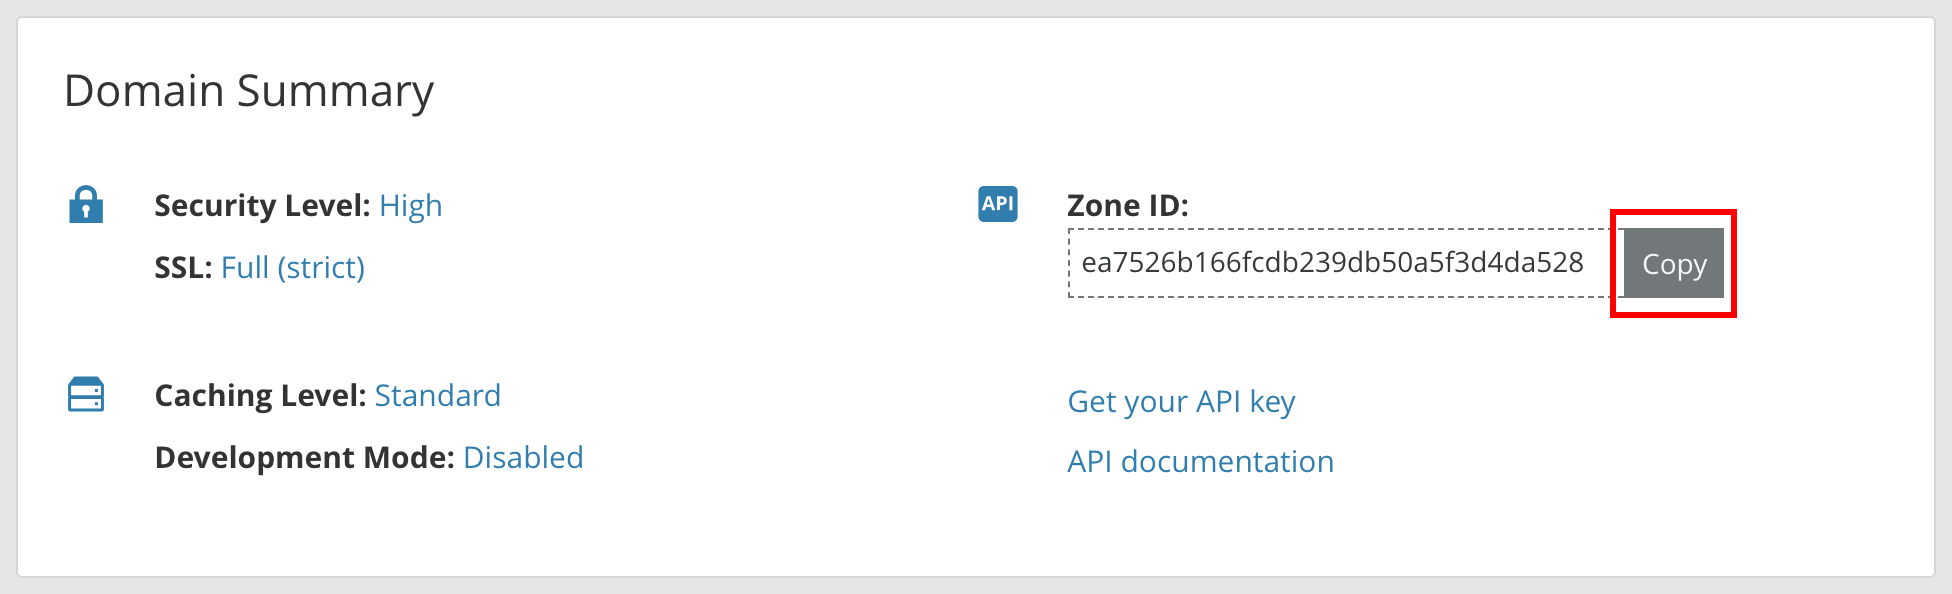
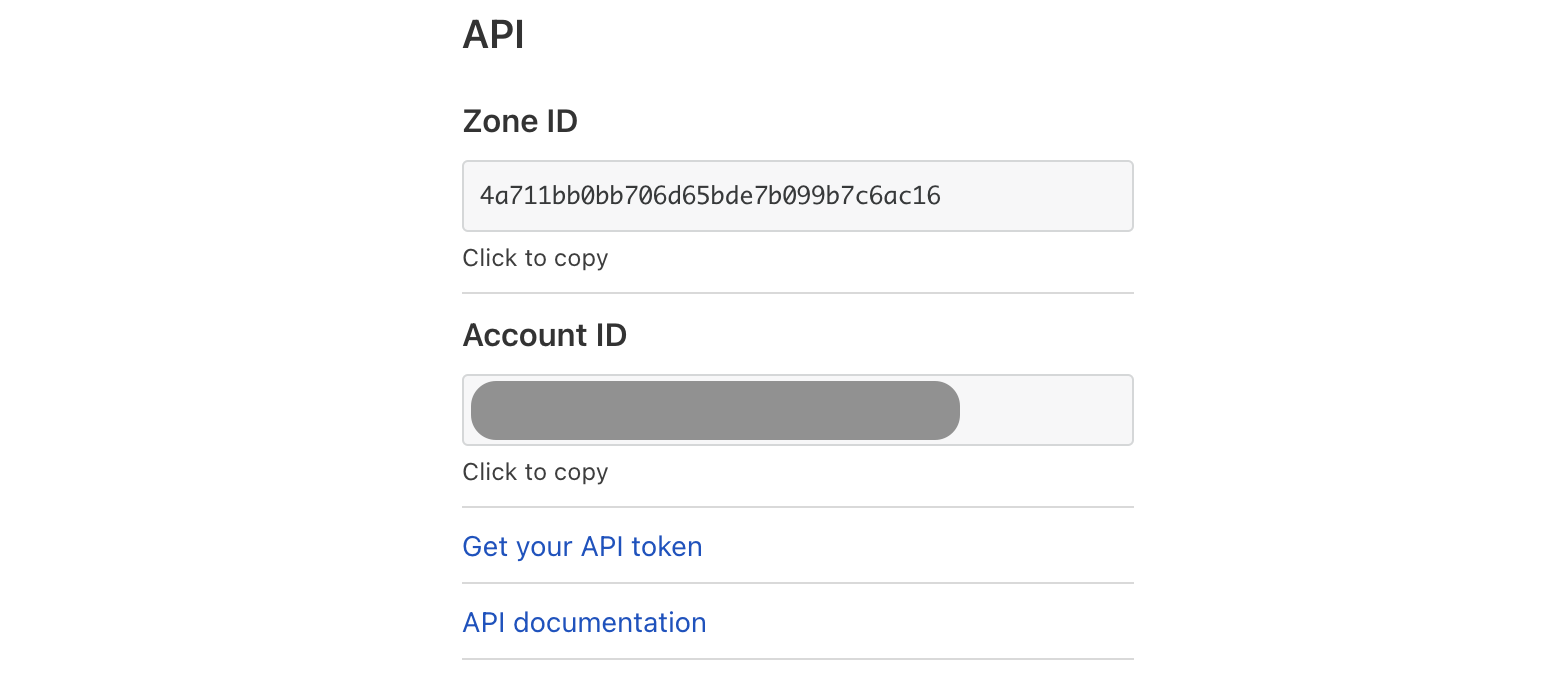
[SSL for SaaS] add using dashboard for SSL for SaaS and change string processing in uploading_certificates.md (#1457)
* change relative ordering of subpages in client-certificates

* add troubleshooting page for Client certificates

* fix broken image links by adding png extension

* add example of embedding client certificate into Android app

* fix typos in client-certificates/configure-your-mobile-app-or-iot-device.md

* fix minor typos

* change ordering of steps

* Small edits

* edit getting started for SSL for SaaS

* edit adding custom hostname for SSL for SaaS

* edit setting up CNAME for customer domain and uploading own certificates

* minor edits

* fix typo

* Update products/ssl/src/content/ssl-for-saas/getting-started.md

* Update products/ssl/src/content/ssl-for-saas/getting-started.md

* Update products/ssl/src/content/ssl-for-saas/getting-started.md

* Update products/ssl/src/content/ssl-for-saas/getting-started.md

* Update products/ssl/src/content/ssl-for-saas/getting-started.md

* Update products/ssl/src/content/ssl-for-saas/getting-started.md

* Update products/ssl/src/content/ssl-for-saas/getting-started.md

* Update products/ssl/src/content/ssl-for-saas/index.md

* Update products/ssl/src/content/ssl-for-saas/getting-started.md

* Update products/ssl/src/content/ssl-for-saas/getting-started.md

* Update products/ssl/src/content/ssl-for-saas/getting-started.md

* Update products/ssl/src/content/ssl-for-saas/getting-started.md

* Update products/ssl/src/content/ssl-for-saas/index.md

diff --git a/products/ssl/src/content/ssl-for-saas/getting-started.md b/products/ssl/src/content/ssl-for-saas/getting-started.md
@@ -8,24 +8,27 @@ pcx-content-type: tutorial
 --------
 
 ## Configure zone with proxy fallback origin
-The fallback origin is used to route the traffic of your Custom Hostnames.  The fallback record is the value of the DNS record you set up via step 2 below.
+The fallback origin is where the traffic of your Custom Hostnames will be routed to. The fallback record is the value of the DNS record you set up via step 2.
 
 1. Sign up your desired zone at [www.cloudflare.com](https://www.cloudflare.com) and select the Free plan.
-2. Add a DNS record pointing to the origin (fallback origin) for Cloudflare to send custom hostname traffic. This hostname is not provided to customers.  Name the hostname according to your naming convention.  For example: `proxy-fallback.saasprovider.com`.
-3. Set up an additional DNS CNAME record to serve as the CNAME target for your end customers.  CNAME this record to your fallback origin, and use a more user-friendly CNAME target for customers.  This record can optionally be a wildcard, e.g. `*.customers.saasprovider.com`.
-4. Upgrade your zone to an Enterprise plan.
-5. Retrieve your zone’s
-    * __[Global API Key](https://support.cloudflare.com/hc/articles/200167836#12345682)__, and
-    * __Zone ID__ (via the __Overview__ app of the Cloudflare dashboard). Alternatively, [retrieve a user’s zones and associated Zone IDs](https://api.cloudflare.com/#zone-list-zones) via the Cloudflare API.
-6. Set the fallback origin via API (change `proxy-fallback.saasprovider.com` to the fallback origin record you configured in Cloudflare DNS):
+1. Click **DNS**.
+1. Add a DNS record pointing to the origin IP address (fallback origin) for Cloudflare to send custom hostname traffic. This hostname is not provided to customers. Name the hostname according to your naming convention. For example: `proxy-fallback.saasprovider.com`.
+3. Set up an additional DNS CNAME record to serve as the CNAME target for your end customers. CNAME this record to your fallback origin and use a more user-friendly CNAME target for customers. This record can optionally be a wildcard, e.g. `*.customers.saasprovider.com`.
+![Add a CNAME record](..//static/ssl-for-saas-dns.png)
+4. Upgrade your zone to an Enterprise plan and contact your Customer Success Manager to enable **SSL for SaaS Certificates**.
+5. Set the **Fallback Origin** via either the dashboard or API.
+    * Via the dashboard: Go to **SSL/TLS** > **Custom Hostnames**, add your fallback origin defined in step 2 above, and click **Add**.
+    ![Add a fallback origin on dashboard](..//static/ssl-for-saas-add-fallback.png)
 
-```bash
-$ curl -XPUT
-"https://api.cloudflare.com/client/v4/zones/<ZONE_ID>/custom_hostnames/fallback_origin"\
--H "X-Auth-Email: {email}" -H "X-Auth-Key: {key}"\
--H "Content-Type: application/json"\
--d '{"origin":"proxy-fallback.saasprovider.com"}'
-```
+    * Via API: Retrieve your [Global API Key and Zone ID](#api-key-and-zone-id). Then, set the fallback origin via API (change `proxy-fallback.saasprovider.com` to the fallback origin record you configured in Cloudflare DNS):
+
+        ```bash
+        $ curl -XPUT \
+        "https://api.cloudflare.com/client/v4/zones/<ZONE_ID>/custom_hostnames/fallback_origin"\
+        -H "X-Auth-Email: {email}" -H "X-Auth-Key: {key}"\
+        -H "Content-Type: application/json"\
+        -d '{"origin":"proxy-fallback.saasprovider.com"}'
+        ```
 
 --------
 
@@ -41,15 +44,15 @@ Each Custom Hostname requires successful Certificate Validation and Hostname Ver
 
 ## API key and zone ID
 
-Your API key can be found in the Cloudflare dashboard under ‘My Profile → Global API Key’.
+Your API key can be found in the Cloudflare dashboard under ‘My Profile → API Tokens → Global API Key’.
 
 ![Accessing an account’s Global API Key](..//static/accessing-global-api-key.png)
 
-The zone tag and API key can also be found in the ‘Overview’ tile of the UI:
+The zone tag and API key can also be found in the **Overview** tab of the dashboard:
 
 ![Obtaining a zone’s ID](..//static/obtaining-zone-id.png)
 
-Additionally you can retrieve a list of user’s zones and their associated IDs via an API call. List all zones for a user: https://api.cloudflare.com/#zone-list-zones.
+Additionally, you can retrieve a list of user’s zones and their associated IDs via an API call. List all zones for a user: https://api.cloudflare.com/#zone-list-zones.
 
 --------
 
@@ -57,15 +60,31 @@ Additionally you can retrieve a list of user’s zones and their associated IDs 
 
 Once your account has been provisioned, you are ready to issue certificates. The call below will provision a request for certificates to be issued for `app.customer.com`, which represents your end customer.
 
-In this example, HTTP based validation is used ("method":"http") to issue this certificate. This requires HTTP traffic to be proxied through Cloudflare’s edge already, i.e., the CNAME from `app.customer.com` must be in place to your zone. If the CNAME is not yet in place, Cloudflare will ask its CA partner to retry until the request can be completed; see the [Validation Backoff Schedule](/ssl-for-saas/validation-backoff-schedule/) for specific timings.
+In this example, HTTP based validation is used ("method":"http") to issue this certificate. This requires HTTP traffic to be proxied through Cloudflare’s edge already, i.e., the CNAME from `app.customer.com` must be [in place for your zone](#setting-cname-at-customer-domain)). If the CNAME is not yet in place, Cloudflare will ask its CA partner to retry until the request can be completed; see the [Validation Backoff Schedule](/ssl-for-saas/validation-backoff-schedule/) for specific timings.
 
 ```bash
 $ curl -XPOST "https://api.cloudflare.com/client/v4/zones/:zone_id/custom_hostnames"\
        -H "X-Auth-Email: {email}" -H "X-Auth-Key: {key}"\
        -H "Content-Type: application/json"\
-       -d '{"hostname":"app.example.com", "ssl":{"method":"http","type":"dv"}}'
+       -d '{"hostname":"app.customer.com", "ssl":{"method":"http","type":"dv"}}'
 ```
 
 Note that it’s possible to serve these HTTP records from your own web servers, in advance of placing the CNAME. The payload returned includes the path where the CA will look for the challenge along with the body that should be returned.
 
+Alternatively, you may also issue certificates to custom hostnames via the dashboard. 
+1. Navigate to **SSL/TLS** > **Custom Hostnames** and click **Add Custom Hostname**.
+1. Add your customer's hostname `app.customer.com` and set the relevant options. 
+1. Click **Add Custom Hostname**.
+![Add a custom hostname](..//static/ssl-for-saas-custom-hostname.png)
+1. You will be brought back to the previous screen, which will show “Pending” before it changes to “Active” within 5 minutes. If you see an error stating “custom hostname does not CNAME to this zone”, you need to [set the DNS record at the customer's domain](#setting-cname-at-customer-domain).
+
 Once domain validation has been completed, the certificates will be issued and distributed to Cloudflare’s edge. With a CNAME in place, the entire process—from validation to issuance to edge deployment—completes in approximately 90 seconds.
+
+--------
+
+## Setting CNAME at customer domain
+Your customer needs to set up a CNAME record at their DNS provider, pointing to your CNAME target configured in [a previous step](#configure-zone-with-proxy-fallback-origin). For example:
+```txt
+app CNAME john.customers.saasprovider.com
+```
+This routes traffic from `app.customer.com` to your origin.

diff --git a/products/ssl/src/content/ssl-for-saas/index.md b/products/ssl/src/content/ssl-for-saas/index.md
@@ -5,8 +5,8 @@ pcx-content-type: landing-page
 
 # SSL for SaaS
 
-Cloudflare [SSL for SaaS](https://www.cloudflare.com/saas/) extends the security and performance benefits of Cloudflare’s network to your customers via their own custom or “vanity” domains.  Issuing certificates requires minimal interaction from your customer to add a CNAME from their custom hostname to your domain.
-Once the CNAME is added, a single API call to issue a SSL for SaaS certificate initiates domain validation with a Certificate Authority (CA) and issuance of two SSL certificates:
+Cloudflare [SSL for SaaS](https://www.cloudflare.com/saas/) extends the security and performance benefits of Cloudflare’s network to your customers via their own custom or “vanity” domains. For example, a customer may want to use their “vanity” domain `app.customer.com` to point to an application hosted on your Cloudflare zone `service.saas.com`. Issuing certificates requires minimal interaction from your customer to add a CNAME from their custom hostname to your domain.
+Once the CNAME is added, a single API call to issue an SSL for SaaS certificate initiates domain validation with a Certificate Authority (CA) and issuance of two SSL certificates:
 
 - an SHA-2/ECDSA
 - an SHA-2/RSA

diff --git a/products/ssl/src/content/ssl-for-saas/uploading-certificates.md b/products/ssl/src/content/ssl-for-saas/uploading-certificates.md
@@ -39,8 +39,8 @@ OeH8gMJ+FuwtXYEPa4hBf38M5eU5xWG7
 ```
 
 ```txt
-$ MYCERT="$(cat app_example_com.pem|perl -pe 's/\r?\n/\\n/'|sed -e 's/..$//')"
-$ MYKEY="$(cat app_example_com.key|perl -pe 's/\r?\n/\\n/'|sed -e's/..$//')"
+$ MYCERT="$(cat app_example_com.pem|perl -pe 's/\r?\n/\\n/')"
+$ MYKEY="$(cat app_example_com.key|perl -pe 's/\r?\n/\\n/')"
 ```
 
 ```bash
@@ -65,7 +65,7 @@ Note that the serial number returned is unique to the issuer, but not globally u
 
 ```bash
 $ curl -sX POST https://api.cloudflare.com/client/v4/zones/{zone_id}/custom_hostnames\
-    -H "X-Auth-Email: {email}" -H "X-Auth-Key: {key}"
+    -H "X-Auth-Email: {email}" -H "X-Auth-Key: {key}"\
     -H 'Content-Type: application/json' -d "$request_body"
 
 {
